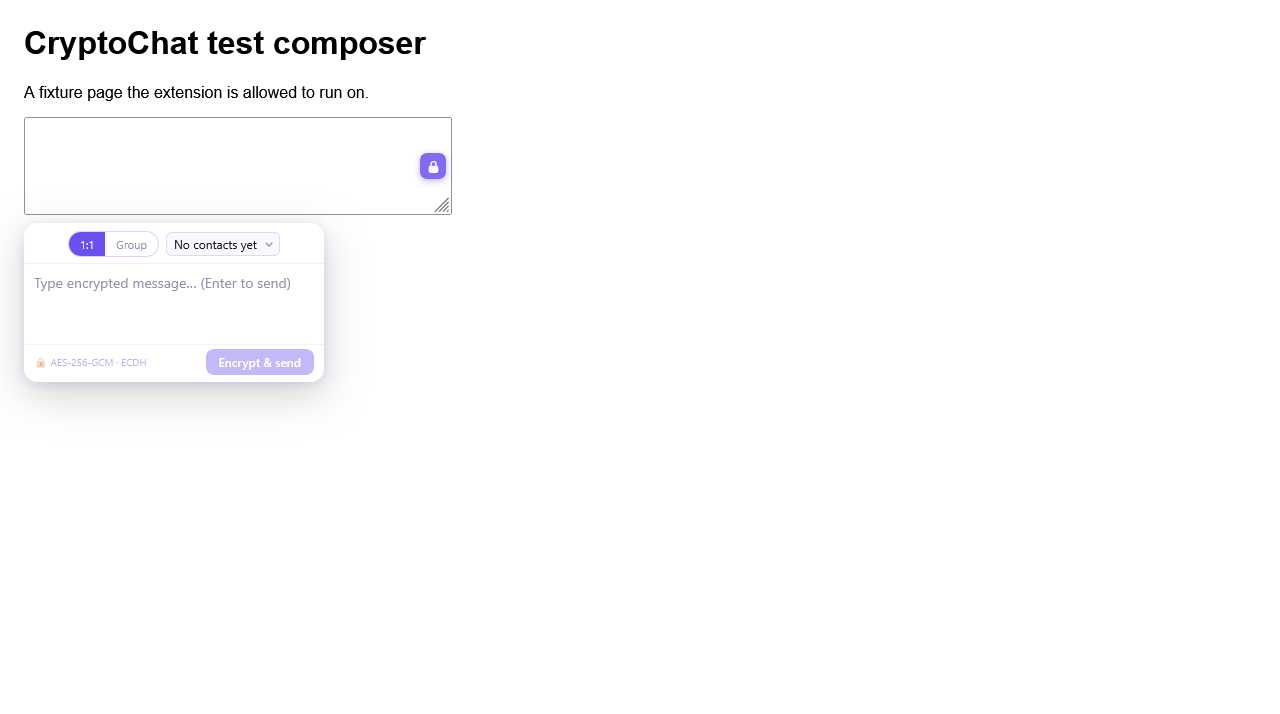
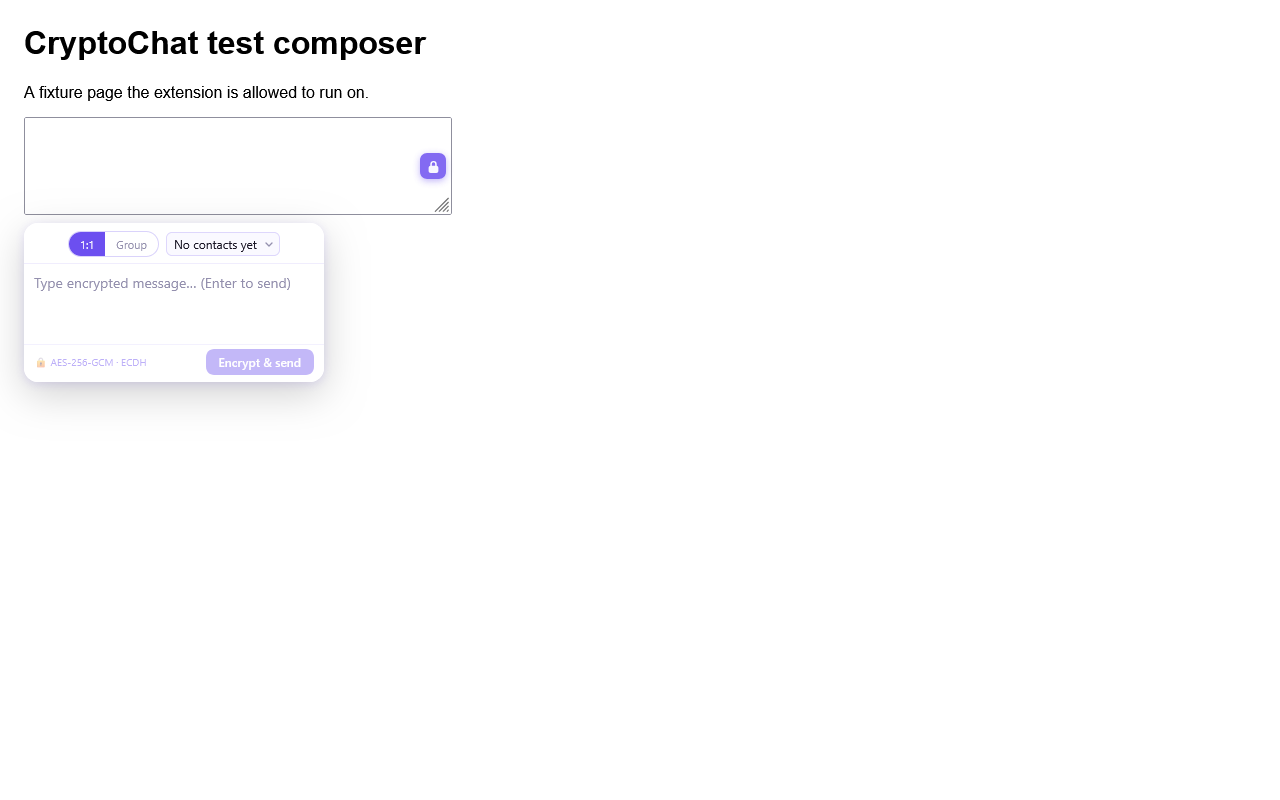
feat: Chrome Web Store screenshot pipeline (1280x800 24-bit PNG/JPEG)
- screenshot runner sizes the viewport to exactly 1280x800
- scripts/make-store-screenshots.js flattens alpha and writes store/screenshots at 1280x800 and 640x400 (PNG 24-bit + JPEG), pure JS via pngjs/jpeg-js
- npm run screenshots:store; README updated

diff --git a/scripts/make-store-screenshots.js b/scripts/make-store-screenshots.js
@@ -1,0 +1,115 @@
+#!/usr/bin/env node
+// SPDX-License-Identifier: AGPL-3.0-or-later
+/**
+ * scripts/make-store-screenshots.js
+ *
+ * Turn the Selenium captures in assets/screenshots/ into Chrome Web Store
+ * submission images. The store requires JPEG or 24-bit PNG with no alpha,
+ * at 1280x800 or 640x400.
+ *
+ *   npm run test:screenshots   # capture at exactly 1280x800
+ *   npm run screenshots:store  # write store/screenshots/{1280x800,640x400}
+ *
+ * Pure JS (pngjs + jpeg-js) — no native build step.
+ */
+
+import fs from 'node:fs';
+import path from 'node:path';
+import { fileURLToPath } from 'node:url';
+import { PNG } from 'pngjs';
+import jpeg from 'jpeg-js';
+
+const ROOT = path.join(path.dirname(fileURLToPath(import.meta.url)), '..');
+const SRC  = path.join(ROOT, 'assets', 'screenshots');
+const OUT  = path.join(ROOT, 'store', 'screenshots');
+
+/** Composite RGBA onto white and return opaque RGBA. */
+function flatten(png) {
+  const { width, height, data } = png;
+  const out = Buffer.alloc(width * height * 4);
+  for (let i = 0; i < width * height; i++) {
+    const a = data[i * 4 + 3];
+    if (a === 255) {
+      out[i * 4]     = data[i * 4];
+      out[i * 4 + 1] = data[i * 4 + 1];
+      out[i * 4 + 2] = data[i * 4 + 2];
+    } else if (a === 0) {
+      out[i * 4] = out[i * 4 + 1] = out[i * 4 + 2] = 255;
+    } else {
+      const af = a / 255;
+      out[i * 4]     = Math.round(data[i * 4]     * af + 255 * (1 - af));
+      out[i * 4 + 1] = Math.round(data[i * 4 + 1] * af + 255 * (1 - af));
+      out[i * 4 + 2] = Math.round(data[i * 4 + 2] * af + 255 * (1 - af));
+    }
+    out[i * 4 + 3] = 255;
+  }
+  return { width, height, data: out };
+}
+
+/** Box-filter 2x downscale (1280x800 -> 640x400). */
+function downscale2(png) {
+  const { width, height, data } = png;
+  const w = width >> 1, h = height >> 1;
+  const out = Buffer.alloc(w * h * 4);
+  for (let y = 0; y < h; y++) {
+    for (let x = 0; x < w; x++) {
+      for (let c = 0; c < 4; c++) {
+        const o0 = ((y * 2)     * width + x * 2)     * 4 + c;
+        const o1 = ((y * 2)     * width + x * 2 + 1) * 4 + c;
+        const o2 = ((y * 2 + 1) * width + x * 2)     * 4 + c;
+        const o3 = ((y * 2 + 1) * width + x * 2 + 1) * 4 + c;
+        out[(y * w + x) * 4 + c] = Math.round((data[o0] + data[o1] + data[o2] + data[o3]) / 4);
+      }
+    }
+  }
+  return { width: w, height: h, data: out };
+}
+
+function writePng24(file, img) {
+  const rgb = Buffer.alloc(img.width * img.height * 3);
+  for (let i = 0; i < img.width * img.height; i++) {
+    rgb[i * 3]     = img.data[i * 4];
+    rgb[i * 3 + 1] = img.data[i * 4 + 1];
+    rgb[i * 3 + 2] = img.data[i * 4 + 2];
+  }
+  fs.writeFileSync(file, PNG.sync.write(
+    { width: img.width, height: img.height, data: rgb },
+    { colorType: 2, inputColorType: 2 }
+  ));
+}
+
+function writeJpg(file, img) {
+  fs.writeFileSync(file, jpeg.encode(
+    { data: img.data, width: img.width, height: img.height }, 92
+  ).data);
+}
+
+fs.mkdirSync(path.join(OUT, '1280x800'), { recursive: true });
+fs.mkdirSync(path.join(OUT, '640x400'),  { recursive: true });
+
+const sources = fs.readdirSync(SRC).filter(f => f.toLowerCase().endsWith('.png'));
+if (!sources.length) {
+  console.error(`No PNGs in ${SRC}. Run: npm run test:screenshots`);
+  process.exit(1);
+}
+
+for (const file of sources) {
+  const png = PNG.sync.read(fs.readFileSync(path.join(SRC, file)));
+  if (png.width !== 1280 || png.height !== 800) {
+    console.warn(`  ! ${file} is ${png.width}x${png.height}; expected 1280x800 — skipping`);
+    continue;
+  }
+  const base = file.replace(/\.png$/i, '');
+  const flat = flatten(png);
+
+  writePng24(path.join(OUT, '1280x800', `${base}.png`), flat);
+  writeJpg  (path.join(OUT, '1280x800', `${base}.jpg`), flat);
+
+  const small = downscale2(flat);
+  writePng24(path.join(OUT, '640x400', `${base}.png`), small);
+  writeJpg  (path.join(OUT, '640x400', `${base}.jpg`), small);
+
+  console.log(`  ✓ ${base}: 1280x800 + 640x400 (PNG 24-bit, JPEG)`);
+}
+
+console.log(`\nStore screenshots in ${path.relative(ROOT, OUT)}`);

diff --git a/test/e2e/screenshot.js b/test/e2e/screenshot.js
@@ -32,6 +32,20 @@ async function panelReady(driver) {
   `), 15000, 'compose panel should open');
 }
 
+/** Resize the browser window until the content viewport is exactly w x h. */
+async function setViewport(driver, w, h) {
+  for (let i = 0; i < 5; i++) {
+    const rect = await driver.manage().window().getRect();
+    const [iw, ih] = await driver.executeScript('return [window.innerWidth, window.innerHeight]');
+    if (iw === w && ih === h) return;
+    await driver.manage().window().setRect({
+      width:  rect.width  + (w - iw),
+      height: rect.height + (h - ih),
+    });
+    await driver.sleep(120);
+  }
+}
+
 (async () => {
   fs.mkdirSync(OUT, { recursive: true });
   H.prepareTestAddon();
@@ -39,9 +53,9 @@ async function panelReady(driver) {
   const driver = await H.launchWithAddon({ headless: process.env.CC_E2E_HEADED !== '1' });
 
   try {
-    // Cap the capture so screenshots stay within 1280x800 for the README/Pages.
-    await driver.manage().window().setRect({ width: MAX_W, height: MAX_H });
     await driver.get(baseUrl);
+    // Exact 1280x800 viewport (Chrome Web Store screenshot size).
+    await setViewport(driver, MAX_W, MAX_H);
 
     const btn = await H.waitForOverlay(driver);
     await driver.sleep(400);

diff --git a/README.md b/README.md
@@ -153,6 +153,7 @@ cryptochat-extension/
 ├── test/                        # Node crypto round-trip + handler tests
 │   └── e2e/                     # Selenium smoke test (launches LibreWolf)
 ├── assets/screenshots/          # README screenshots (generated by test:screenshots)
+├── store/screenshots/           # Chrome Web Store images (24-bit PNG + JPEG)
 ├── web-ext-config.mjs           # web-ext lint/run config
 └── THIRD_PARTY_LICENSES.md
 ```
@@ -205,6 +206,7 @@ npm run build:pqc      # regenerate the ML-KEM-768 hybrid bundle
 npm test               # crypto round-trip + handler unit tests (Node)
 npm run test:e2e       # Selenium smoke test in LibreWolf
 npm run test:screenshots # drive LibreWolf and refresh assets/screenshots
+npm run screenshots:store # write 24-bit 1280x800 / 640x400 store images
 npm run lint:firefox   # web-ext lint against AMO rules
 npm run run:librewolf  # launch LibreWolf with the extension loaded (hot reload)
 ```
@@ -231,6 +233,10 @@ npm run run:librewolf  # launch LibreWolf with the extension loaded (hot reload)
   npm run build:firefox
   npm run test:e2e
   ```
+
+- **Chrome Web Store images:** `npm run screenshots:store` converts the captures
+  into submission-ready images under `store/screenshots/` — 24-bit PNG (no alpha)
+  and JPEG at both 1280×800 and 640×400.
 
 ---
 
